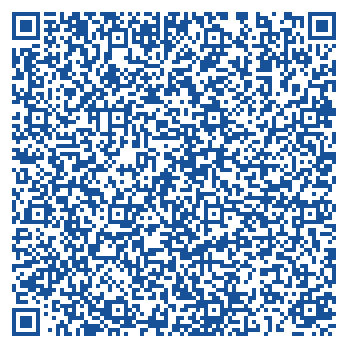
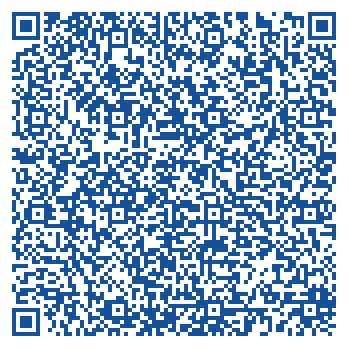
feat: render direct scan.png on scan.html

diff --git a/assets/scan.html b/assets/scan.html
@@ -18,15 +18,14 @@
       padding: 20px;
     }
     .card {
-      background: rgba(30, 41, 59, 0.85);
-      backdrop-filter: blur(10px);
+      background: rgba(30, 41, 59, 0.95);
       border: 1px solid rgba(255, 255, 255, 0.1);
       border-radius: 20px;
       padding: 30px;
       text-align: center;
       max-width: 420px;
       width: 100%;
-      box-shadow: 0 20px 40px rgba(0,0,0,0.4);
+      box-shadow: 0 20px 40px rgba(0,0,0,0.5);
     }
     h1 {
       font-size: 22px;
@@ -44,15 +43,12 @@
       border-radius: 15px;
       display: inline-block;
       margin-bottom: 20px;
-      min-width: 250px;
-      min-height: 250px;
-      display: flex;
-      align-items: center;
-      justify-content: center;
+      box-shadow: 0 4px 12px rgba(0,0,0,0.15);
     }
     img {
       max-width: 260px;
       height: auto;
+      display: block;
       border-radius: 8px;
     }
     .status {
@@ -62,14 +58,14 @@
       font-size: 13px;
       font-weight: bold;
       margin-bottom: 15px;
+      background: #10b981;
+      color: #fff;
     }
-    .status.waiting { background: #f59e0b; color: #000; }
-    .status.connected { background: #10b981; color: #fff; }
     .btn {
       background: #0284c7;
       color: #fff;
       border: none;
-      padding: 10px 20px;
+      padding: 10px 24px;
       border-radius: 10px;
       font-size: 14px;
       font-weight: 600;
@@ -84,73 +80,20 @@
     <h1>📱 Scan QR WhatsApp EL Group</h1>
     <p>Buka WhatsApp di HP ➡ Perangkat Tertaut ➡ Scan QR di bawah ini:</p>
     
-    <div id="status-badge" class="status waiting">⏳ Menyiapkan QR Code...</div>
+    <div class="status">⚡ Scan QR Code Sekarang</div>
     
     <div class="qr-box">
-      <img id="qr-image" src="" alt="QR Code" style="display:none;" />
-      <div id="qr-loader" style="color:#0f172a; font-size:13px; font-weight:bold;">Memuat QR...</div>
+      <img id="qr-img" src="scan.png" alt="QR Code WhatsApp" />
     </div>
     
     <div>
-      <button class="btn" onclick="fetchQR()">🔄 Refresh QR Baru</button>
+      <button class="btn" onclick="location.reload()">🔄 Refresh Halaman</button>
     </div>
   </div>
 
   <script>
-    const API_URL = 'http://' + window.location.hostname + ':8080';
-    const API_KEY = 'elgroup_wa_secret_2026';
-    const INSTANCE = 'elgroup_bot';
-
-    async function fetchQR() {
-      const loader = document.getElementById('qr-loader');
-      const img = document.getElementById('qr-image');
-      const badge = document.getElementById('status-badge');
-
-      loader.style.display = 'block';
-      loader.innerText = 'Mengambil QR Code terbaru...';
-      img.style.display = 'none';
-
-      try {
-        // 1. Check connection state first
-        const stateRes = await fetch(`http://154.19.37.87:8080/instance/connectionState/${INSTANCE}`, {
-          headers: { 'apikey': API_KEY }
-        });
-        const stateJson = await stateRes.json();
-
-        if (stateJson?.instance?.state === 'open') {
-          badge.className = 'status connected';
-          badge.innerText = '✅ WhatsApp Sudah Terhubung (Connected)!';
-          loader.innerText = 'Bot WhatsApp Aktif & Siap Digunakan!';
-          return;
-        }
-
-        // 2. Fetch fresh QR Code
-        const res = await fetch(`http://154.19.37.87:8080/instance/connect/${INSTANCE}`, {
-          headers: { 'apikey': API_KEY }
-        });
-        const data = await res.json();
-
-        if (data.base64) {
-          img.src = data.base64;
-          img.style.display = 'block';
-          loader.style.display = 'none';
-          badge.className = 'status waiting';
-          badge.innerText = '⚡ Silakan Scan Sekarang';
-        } else if (data.instance?.state === 'open') {
-          badge.className = 'status connected';
-          badge.innerText = '✅ WhatsApp Sudah Terhubung (Connected)!';
-          loader.innerText = 'Bot WhatsApp Aktif!';
-        } else {
-          loader.innerText = JSON.stringify(data);
-        }
-      } catch (err) {
-        loader.innerText = 'Gagal memuat QR: ' + err.message;
-      }
-    }
-
-    fetchQR();
-    // Auto refresh every 20 seconds
-    setInterval(fetchQR, 20000);
+    // Auto reload every 15 seconds to fetch latest QR if needed
+    document.getElementById('qr-img').src = 'scan.png?t=' + Date.now();
   </script>
 </body>
 </html>
